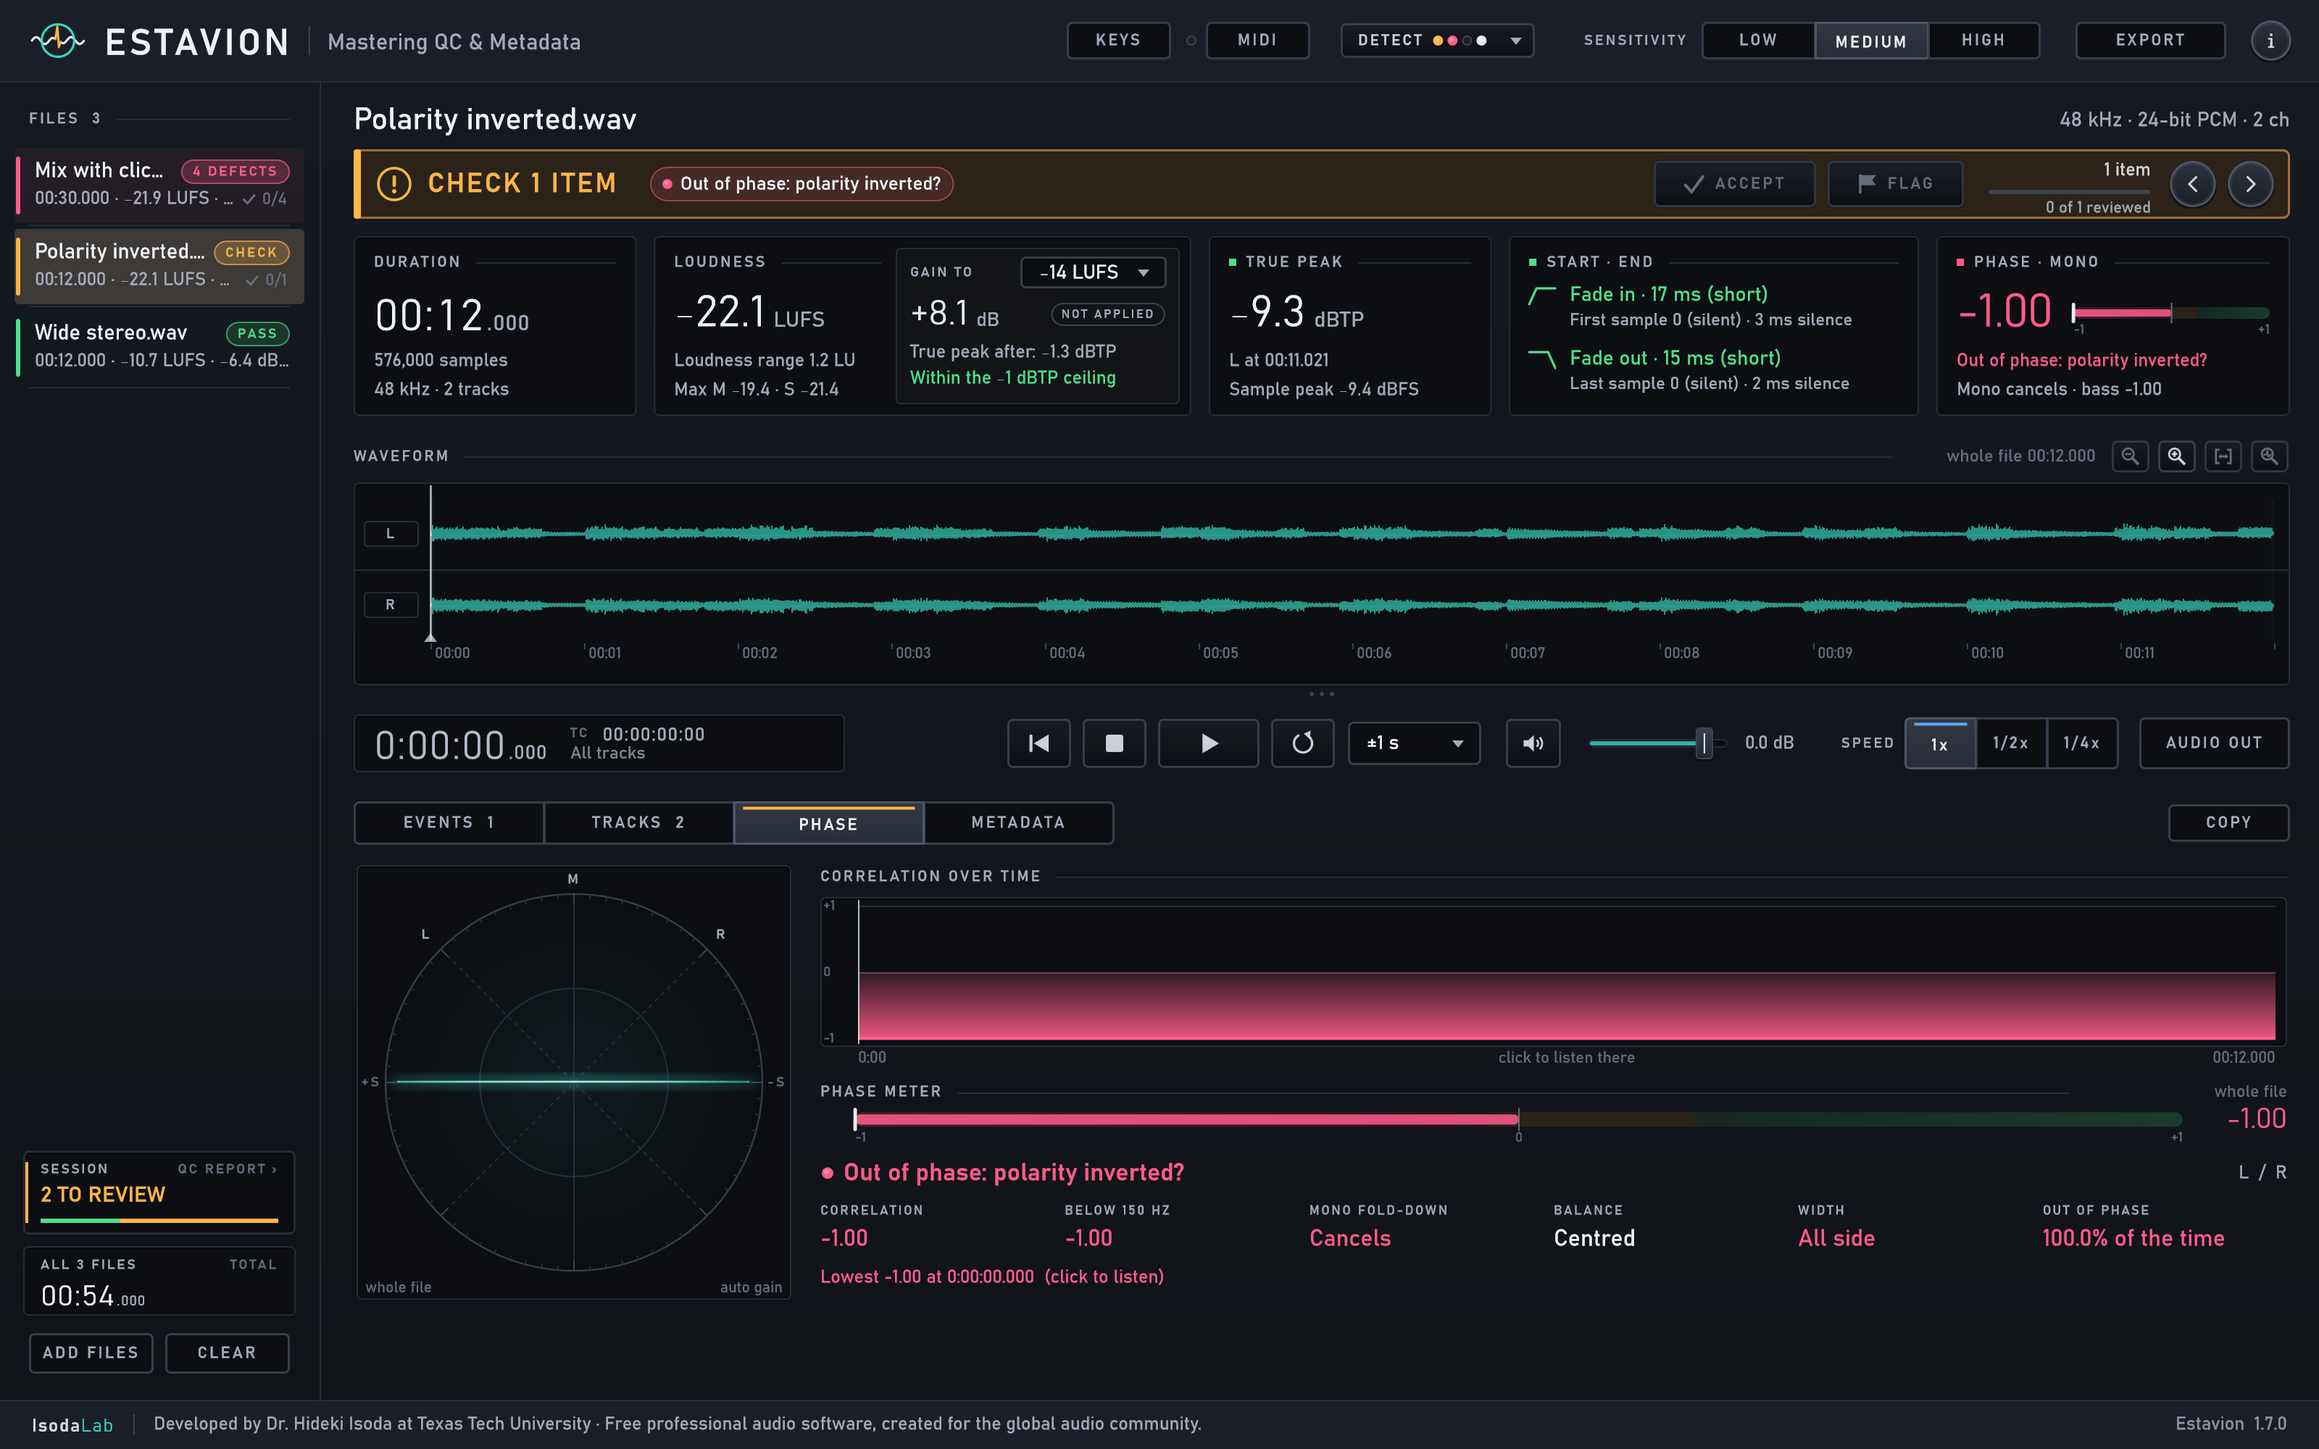
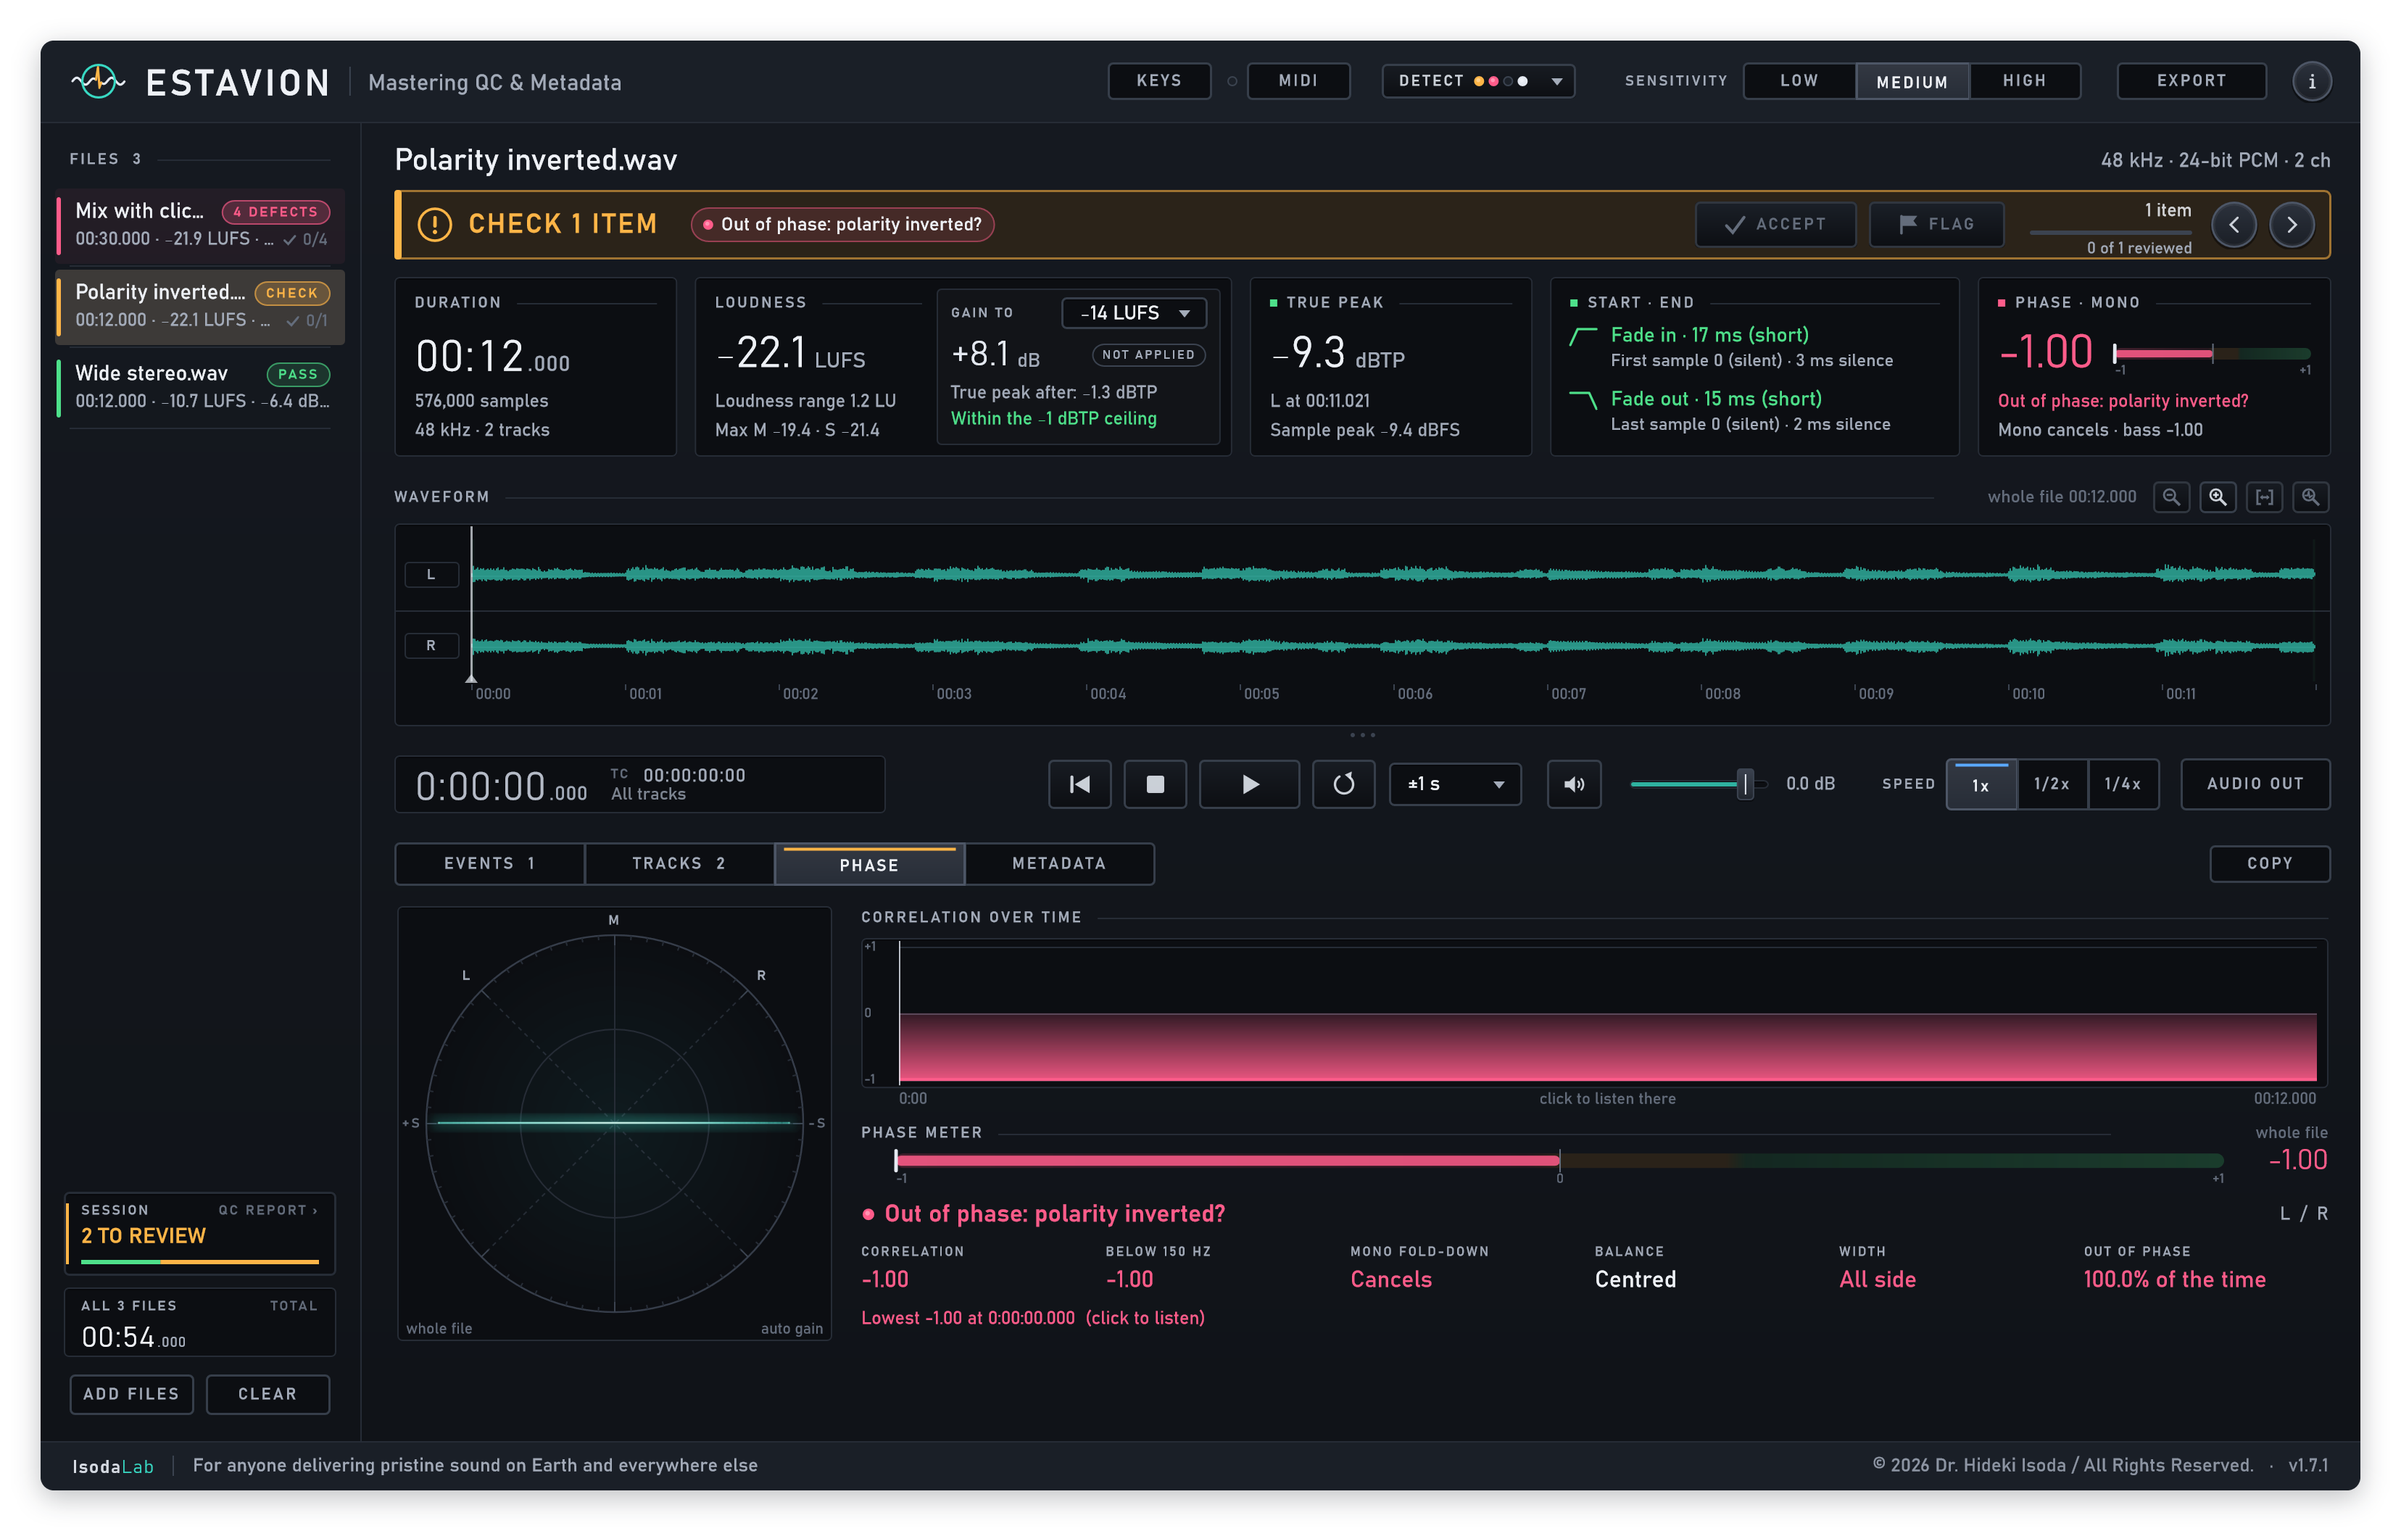
Estavion 1.7.1: footer as the other IsodaLab tools; framed screenshots

diff --git a/README.md b/README.md
@@ -8,7 +8,7 @@ IsodaLab<br>
 <i>Free professional audio software, created for the global audio community.</i></p>
 
 <p align="center">
-  <a href="https://github.com/isodalab/estavion/releases/tag/v1.7.0"><b>Download 1.7.0</b></a> ·
+  <a href="https://github.com/isodalab/estavion/releases/tag/v1.7.1"><b>Download 1.7.1</b></a> ·
   <a href="#install-on-windows">Install on Windows</a> ·
   <a href="#install-on-macos">Install on macOS</a> ·
   <a href="#install-on-linux">Install on Linux</a> ·
@@ -31,11 +31,11 @@ It runs on **Windows**, **macOS** (Apple silicon) and **Linux**, with the same a
 
 | Platform | Package | Requirements |
 |---|---|---|
-| **Windows** | [IsodaLab-Estavion-1.7.0-Windows.zip](https://github.com/isodalab/estavion/releases/download/v1.7.0/IsodaLab-Estavion-1.7.0-Windows.zip) | 64-bit Windows 10 or 11 |
-| **macOS** | [IsodaLab-Estavion-1.7.0-macOS-AppleSilicon.dmg](https://github.com/isodalab/estavion/releases/download/v1.7.0/IsodaLab-Estavion-1.7.0-macOS-AppleSilicon.dmg) | Mac with Apple silicon (M1 or later), macOS 11 or later |
-| **Linux** | [IsodaLab-Estavion-1.7.0-Linux-x86_64.zip](https://github.com/isodalab/estavion/releases/download/v1.7.0/IsodaLab-Estavion-1.7.0-Linux-x86_64.zip) | 64-bit Linux (x86_64), glibc 2.35 or later (Ubuntu 22.04+, Debian 12, Fedora 36+, …), ALSA or JACK audio |
+| **Windows** | [IsodaLab-Estavion-1.7.1-Windows.zip](https://github.com/isodalab/estavion/releases/download/v1.7.1/IsodaLab-Estavion-1.7.1-Windows.zip) | 64-bit Windows 10 or 11 |
+| **macOS** | [IsodaLab-Estavion-1.7.1-macOS-AppleSilicon.dmg](https://github.com/isodalab/estavion/releases/download/v1.7.1/IsodaLab-Estavion-1.7.1-macOS-AppleSilicon.dmg) | Mac with Apple silicon (M1 or later), macOS 11 or later |
+| **Linux** | [IsodaLab-Estavion-1.7.1-Linux-x86_64.zip](https://github.com/isodalab/estavion/releases/download/v1.7.1/IsodaLab-Estavion-1.7.1-Linux-x86_64.zip) | 64-bit Linux (x86_64), glibc 2.35 or later (Ubuntu 22.04+, Debian 12, Fedora 36+, …), ALSA or JACK audio |
 
-Every package contains the app, the Quick Start guide and the license. [SHA256SUMS.txt](https://github.com/isodalab/estavion/releases/download/v1.7.0/SHA256SUMS.txt) lists the checksums. ESTAVION is a standalone app: there is no installer, no account and no license key. The full guide is inside the app: click **(i)** or press **Ctrl+/** (**Cmd+/** on a Mac).
+Every package contains the app, the Quick Start guide and the license. [SHA256SUMS.txt](https://github.com/isodalab/estavion/releases/download/v1.7.1/SHA256SUMS.txt) lists the checksums. ESTAVION is a standalone app: there is no installer, no account and no license key. The full guide is inside the app: click **(i)** or press **Ctrl+/** (**Cmd+/** on a Mac).
 
 ## What it does
 
@@ -89,7 +89,7 @@ ESTAVION is free and isn't code-signed with a paid certificate, so Windows treat
 
 ## Install on macOS
 
-1. **Download** `IsodaLab-Estavion-1.7.0-macOS-AppleSilicon.dmg` and double-click it.
+1. **Download** `IsodaLab-Estavion-1.7.1-macOS-AppleSilicon.dmg` and double-click it.
 2. **Drag `Estavion.app` to your Applications folder.**
 3. **Open it.** The first time, macOS shows an alert saying *"ESTAVION" Not Opened*. That's expected: ESTAVION is free and isn't notarized with a paid Apple Developer ID. Click **Done** (1), not *Move to Trash*.
 
@@ -117,13 +117,13 @@ Then open ESTAVION again.
 1. **Extract** the download with your file manager, or in a terminal:
 
    ```bash
-   unzip IsodaLab-Estavion-1.7.0-Linux-x86_64.zip
+   unzip IsodaLab-Estavion-1.7.1-Linux-x86_64.zip
    ```
 
 2. **Run it**, or add it to your applications menu:
 
    ```bash
-   cd IsodaLab-Estavion-1.7.0-Linux-x86_64
+   cd IsodaLab-Estavion-1.7.1-Linux-x86_64
    ./Estavion            # run it from here
    ./install.sh          # or: install for this user (~/.local/bin and the menu)
    ```
@@ -143,7 +143,7 @@ Shortcuts are written for Windows and Linux; on a Mac, use **Cmd** where they sa
 4. **Check the summary tiles:** loudness and the gain to your target, true peak, start and end, phase and mono.
 5. **When the SESSION box says ALL FILES CLEARED,** print the QC report (Ctrl+R) for the client.
 
-The [Quick Start](https://github.com/isodalab/estavion/releases/tag/v1.7.0) in every package and the guide inside the app (**Ctrl+/**) explain every feature.
+The [Quick Start](https://github.com/isodalab/estavion/releases/tag/v1.7.1) in every package and the guide inside the app (**Ctrl+/**) explain every feature.
 
 ## Privacy
 

diff --git a/CHANGELOG.md b/CHANGELOG.md
@@ -1,5 +1,9 @@
 # Changelog
 
+## 1.7.1 (2026-11-27)
+
+- The footer follows the other IsodaLab tools: IsodaLab | “For anyone delivering pristine sound on Earth and everywhere else”, then the copyright and the version.
+
 ## 1.7.0 (2026-11-20)
 
 First public release, for Windows, macOS (Apple silicon) and Linux.
